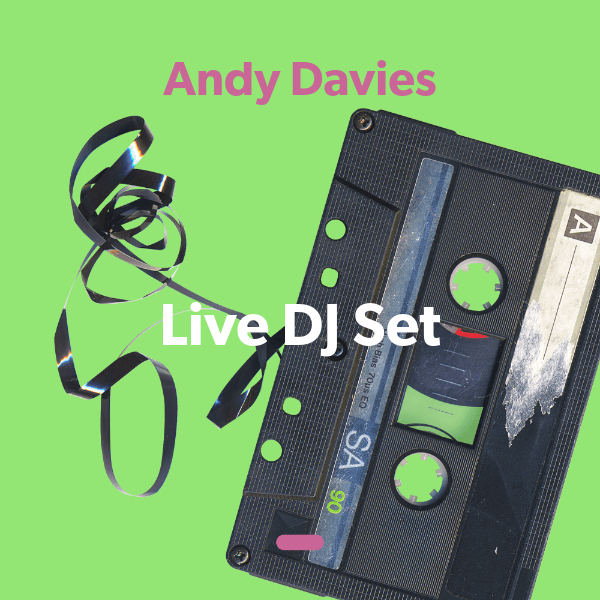
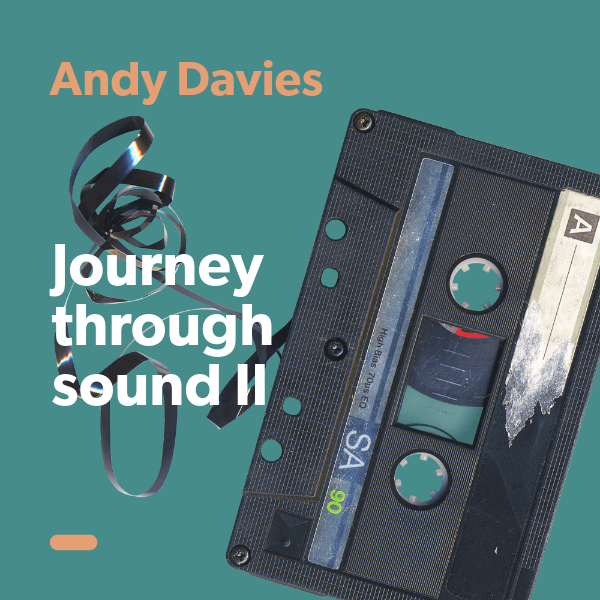
Schedule & Archive updates

diff --git a/_includes/archive.md b/_includes/archive.md
@@ -1,14 +1,52 @@
+
+### Sunday May 17th
+---
+
+#### 10am numbernaut 
+![cover art](assets/owner/images/20200517-10am.jpeg)
+
+#### 11am Alex M <a href="https://open.spotify.com/playlist/2Jabvf4UUmhGApy3d7OyxL" target="_blank" title="Go to playlist"> <i class="fab fa-spotify fa-inverse"></i></a>
+![cover art](assets/owner/images/20200517-11am.jpeg)
+
+#### 1pm Brocc Oli <a href="https://open.spotify.com/playlist/35XfRzfWBwL23hyWElbRXX" target="_blank" title="Go to playlist"> <i class="fab fa-spotify fa-inverse"></i></a>
+![cover art](assets/owner/images/20200517-1pm.jpeg)
+
+#### 4pm Sal and Kez <a href="https://open.spotify.com/playlist/6lsaAftnoClhvE3Nw1jofl" target="_blank" title="Go to playlist"> <i class="fab fa-spotify fa-inverse"></i></a>
+![cover art](assets/owner/images/20200517-4pm.jpeg)
+
+#### 5.30pm Bob 
+![cover art](assets/owner/images/20200517-6pm.jpeg)
+
+#### 9.30pm Nicnoname
+![cover art](assets/owner/images/20200517-9pm.jpeg)
+
+### Saturday May 16th
+---
+
+#### 1pm Gazelle <a href="https://www.mixcloud.com/Glastonauts_Live/gazelle-the-desert-session/" target="_blank" title="Go to recording"> <i class="fab fa-mixcloud fa-inverse"></i></a>
+![cover art](assets/owner/images/20200516-1pm.jpeg)
+
+#### 3pm S&G Takeover Part I
+![cover art](assets/owner/images/20200516-3pm.jpeg)
+
+#### 7pm CD <a href="https://www.mixcloud.com/Glastonauts_Live/cd-nottopolous-covid-16th-of-may/" target="_blank" title="Go to recording"> <i class="fab fa-mixcloud fa-inverse"></i></a>
+![cover art](assets/owner/images/20200516-8pm.jpeg)
+
+#### 8pm S&G Takeover Part II
+![cover art](assets/owner/images/20200516-7pm.jpeg)
+
 ### Friday May 15th
 ---
 
 #### 4pm TomKat <a href="https://open.spotify.com/playlist/1C2j2IX93GmhhlfmcRqd4B" target="_blank" title="Go to playlist"> <i class="fab fa-spotify fa-inverse"></i></a>
 ![cover art](assets/owner/images/20200515-4pm.jpeg)
 
-#### 7pm Andy Davies
+#### 7pm Andy Davies <a href="https://www.mixcloud.com/Glastonauts_Live/andy-davies-journey-through-sound-ii/" target="_blank" title="Go to recording"> <i class="fab fa-mixcloud fa-inverse"></i></a>
 ![cover art](assets/owner/images/20200515-7pm.jpeg)
 
-#### 9pm Nicnoname
+#### 9pm Nicnoname <a href="https://www.mixcloud.com/Glastonauts_Live/nicnoname-techno-set-extravaganza/" target="_blank" title="Go to recording"> <i class="fab fa-mixcloud fa-inverse"></i></a>
 ![cover art](assets/owner/images/20200515-9pm.jpeg)
+
 
 ### Thursday May 14th
 ---

diff --git a/_includes/schedule.md b/_includes/schedule.md
@@ -1,35 +1,4 @@
-### Saturday May 16th
----
-
-#### 1pm Gazelle
-![cover art](assets/owner/images/20200516-1pm.jpeg)
-
-#### 3pm S&G Takeover Part I
-![cover art](assets/owner/images/20200516-3pm.jpeg)
-
-#### 7pm S&G Takeover Part II
-![cover art](assets/owner/images/20200516-7pm.jpeg)
-
-### Sunday May 17th
----
-
-#### 10am numbernaut
-![cover art](assets/owner/images/20200517-10am.jpeg)
-
-#### 11am Alex M
-![cover art](assets/owner/images/20200517-11am.jpeg)
-
-#### 1pm Brocc Oli
-![cover art](assets/owner/images/20200517-1pm.jpeg)
-
-#### 4pm Sal and Kez
-![cover art](assets/owner/images/20200517-4pm.jpeg)
-
-#### 5.30pm Bob
-![cover art](assets/owner/images/20200517-6pm.jpeg)
-
-#### 9.30pm Nicnoname
-![cover art](assets/owner/images/20200517-9pm.jpeg)
+### We'll be back on Wednesday
 
 
 
